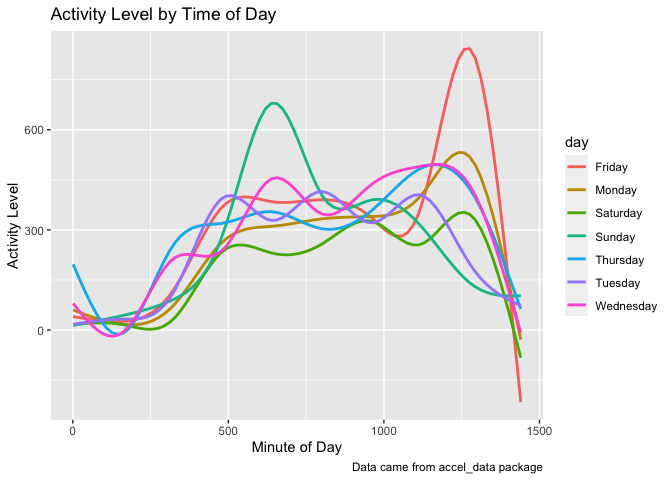
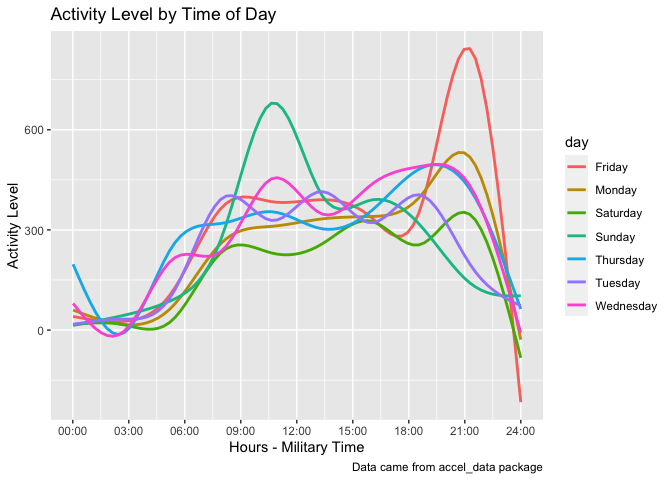
Final commit

diff --git a/p8105_hw3_ag2965_v2.md b/p8105_hw3_ag2965_v2.md
@@ -207,9 +207,11 @@ activity variable is 1, 8982.
 
 Below, I have wrangled the data to focus on the total activity over the
 day. Using my tidied dataset, I have aggregated across minutes to create
-a total activity variable for each day, and create a table showing these
-totals. This table suggests that activity levels tend to be higher on
-Fridays than on the other days of the week.
+a total activity variable for each day of the week and each week, and
+create a table showing these totals. The data demonstrates that weeks 2
+and 3 were the most active weeks, while week 4 was the least active
+week. Wednesday, Thursday, and Friday were the most active days, while
+Saturday and Tuesday were the least active days.
 
 ``` r
 accel_data_agg=read_csv("data/accel_data.csv")%>%
@@ -325,31 +327,20 @@ accel_data_24=read_csv("data/accel_data.csv")%>%
 accel_data_24%>%
   ggplot(aes(x=minutes,y=activity,color=day))+
   geom_smooth(se = FALSE)+
-labs(
-  x="Minute of Day",
+  labs(
+  x="Hours - Military Time",
   y="Activity Level",
   title="Activity Level by Time of Day",
   caption="Data came from accel_data package"
-)
+)+
+  scale_x_continuous(
+    breaks = c(0, 180, 360, 540, 720, 900, 1080, 1260, 1440),
+    labels = c("00:00", "03:00", "06:00", "09:00", "12:00", "15:00", "18:00", "21:00", "24:00"))
 ```
 
     ## `geom_smooth()` using method = 'gam' and formula 'y ~ s(x, bs = "cs")'
 
 ![](p8105_hw3_ag2965_v2_files/figure-gfm/unnamed-chunk-11-1.png)<!-- -->
-
-``` r
-head(accel_data_24)
-```
-
-    ## # A tibble: 6 × 6
-    ##    week day_id day    minutes activity day_type
-    ##   <dbl>  <dbl> <fct>    <dbl>    <dbl> <fct>   
-    ## 1     1      1 Friday       1     88.4 weekday 
-    ## 2     1      1 Friday       2     82.2 weekday 
-    ## 3     1      1 Friday       3     64.4 weekday 
-    ## 4     1      1 Friday       4     70.0 weekday 
-    ## 5     1      1 Friday       5     75.0 weekday 
-    ## 6     1      1 Friday       6     66.3 weekday
 
 \#Problem 3
 
